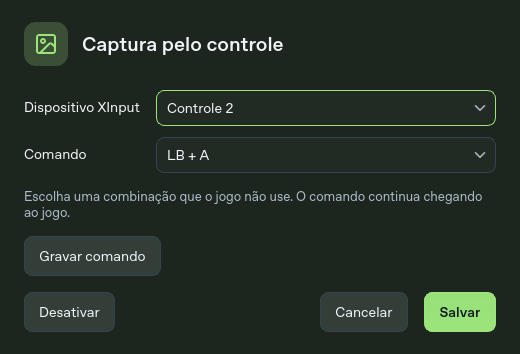
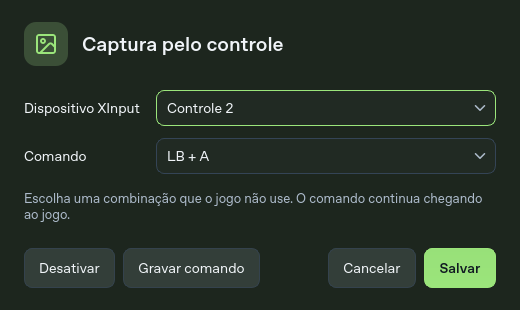
fix: alinhar botoes da captura pelo controle

diff --git a/checkpoint/controller_capture.py b/checkpoint/controller_capture.py
@@ -1,6 +1,6 @@
 """Atalho de captura para botões digitais expostos pelo XInput."""
 import sys
-from PySide6.QtCore import QObject,QTimer,Qt
+from PySide6.QtCore import QObject,QTimer
 
 
 BUTTONS={0x0001:'↑',0x0002:'↓',0x0004:'←',0x0008:'→',0x0010:'Menu',0x0020:'Visão',
@@ -102,7 +102,7 @@ def configure_controller(controller):
             painter.drawPixmap(self.width()-25,(self.height()-18)//2,arrow)
 
     dialog=prepare_dialog(QDialog(controller.window))
-    dialog.setWindowTitle('Captura pelo controle');dialog.resize(520,354)
+    dialog.setWindowTitle('Captura pelo controle');dialog.resize(520,310)
     layout=QVBoxLayout(dialog)
     dialog_heading(layout,'Captura pelo controle',name='memories')
     inputs=QGridLayout();inputs.setHorizontalSpacing(16);inputs.setVerticalSpacing(0)
@@ -174,9 +174,11 @@ def configure_controller(controller):
         controller.window.library.set_setting(PREFERENCE,{})
         dialog.accept()
 
-    learn_button=action('Gravar comando',learn);layout.addWidget(learn_button,0,Qt.AlignLeft)
     layout.addStretch()
-    buttons=QHBoxLayout();buttons.addWidget(action('Desativar',disable));buttons.addStretch()
+    buttons=QHBoxLayout();buttons.setSpacing(8)
+    buttons.addWidget(action('Desativar',disable))
+    learn_button=action('Gravar comando',learn);buttons.addWidget(learn_button)
+    buttons.addStretch()
     buttons.addWidget(action('Cancelar',dialog.reject))
     save_button=action('Salvar',save,True);save_button.setEnabled(bool(command.currentData()));buttons.addWidget(save_button);layout.addLayout(buttons)
     command.currentIndexChanged.connect(lambda:save_button.setEnabled(bool(command.currentData()) and not learning))

diff --git a/tests/test_controller_capture.py b/tests/test_controller_capture.py
@@ -51,6 +51,10 @@ def test_controller_dialog_learns_and_persists_pressed_buttons(ui,app):
             assert command.font()==device.font()
             assert command.geometry().top()-device.geometry().bottom()>=12
             assert command.x()==device.x() and command.height()==device.height()
+            footer=[buttons[name].geometry() for name in ('Desativar','Gravar comando','Cancelar','Salvar')]
+            assert len({(button.y(),button.height()) for button in footer})==1
+            assert all(left.right()<right.left() for left,right in zip(footer,footer[1:]))
+            assert all(dialog.rect().contains(button) for button in footer)
             command.setCurrentIndex(command.findData(0x1000))
             assert command.currentText()=='A' and buttons['Salvar'].isEnabled()
             buttons['Gravar comando'].click()

diff --git a/RELATORIO_ESTABILIDADE_0139.md b/RELATORIO_ESTABILIDADE_0139.md
@@ -334,6 +334,14 @@ captura de combinação, reconexão simulada, segundo dispositivo, fonte e
 espaçamento. Captura Qt com um dispositivo simulado. Validação física no
 Windows pendente.
 
+Ajuste visual posterior pedido pelo dono: Desativar e Gravar comando ficam
+juntos à esquerda, com Cancelar e Salvar à direita na mesma linha. O rodapé
+tem 8 px de espaçamento entre botões vizinhos. O teste verifica ordem,
+mesma posição vertical e altura, contenção no diálogo e gravação de comando.
+Foram quatro testes aprovados em Linux/Qt offscreen. A captura atualizada
+está em evidence/estabilidade-0139/captura-controle.png e usa dispositivo
+simulado.
+
 **Item 19.** Consultas públicas em BRL, sem chave, registram as ofertas de
 Cyberpunk 2077, Hades, Hades II e God of War Ragnarök para PC. Para God of War
 a oferta oficial trouxe R$ 249,90 original e R$ 142,30 atual, diferença de

diff --git a/CONTINUITY.md b/CONTINUITY.md
@@ -7,8 +7,10 @@ autoriza somente implementação/commits locais/validação: sem push/PR/tag/rel
 Memórias agora progressivas, página/abas persistentes, miniaturas assíncronas
 limitadas e grade na largura útil. Medição 96 imagens: ~5 s antes, 0,08 s na
 primeira entrada e ~0,007 s nos retornos após; ensaio Linux isolado. Seletor
-só contém jogos com registros em Memórias. Restante em andamento no plano e
-RELATORIO_ESTABILIDADE_0139.md. Gates antigos abaixo são históricos.
+só contém jogos com registros em Memórias. O diálogo Captura pelo controle
+agora alinha Desativar, Gravar comando, Cancelar e Salvar no mesmo rodapé.
+Restante em andamento no plano e no RELATORIO_ESTABILIDADE_0139.md.
+Gates antigos abaixo são históricos.
 
 ## Revisão local após 0.1.39 — fix/pos-0139-layout
 

diff --git a/PROJECT_STATUS.md b/PROJECT_STATUS.md
@@ -3,7 +3,8 @@
 Revisão de estabilidade/organização em andamento sobre 0.1.39/9ecbc95, somente
 local e sem publicação autorizada. Memórias: carga progressiva/reuso de página,
 miniaturas no pool/cache limitado, filtros só para jogos com memórias e grade
-responsiva. 52 regressões direcionadas passaram; novos gates integrais pendentes.
+responsiva. A revisão local em 747fdcb passou em 872 testes. O diálogo Captura
+pelo controle recebeu um rodapé horizontal, validado nos testes do diálogo.
 PLANO_ESTABILIDADE_0139.md e RELATORIO_ESTABILIDADE_0139.md registram andamento.
 
 Revisão local em fix/pos-0139-layout, sem nova publicação: Início sem jogos
